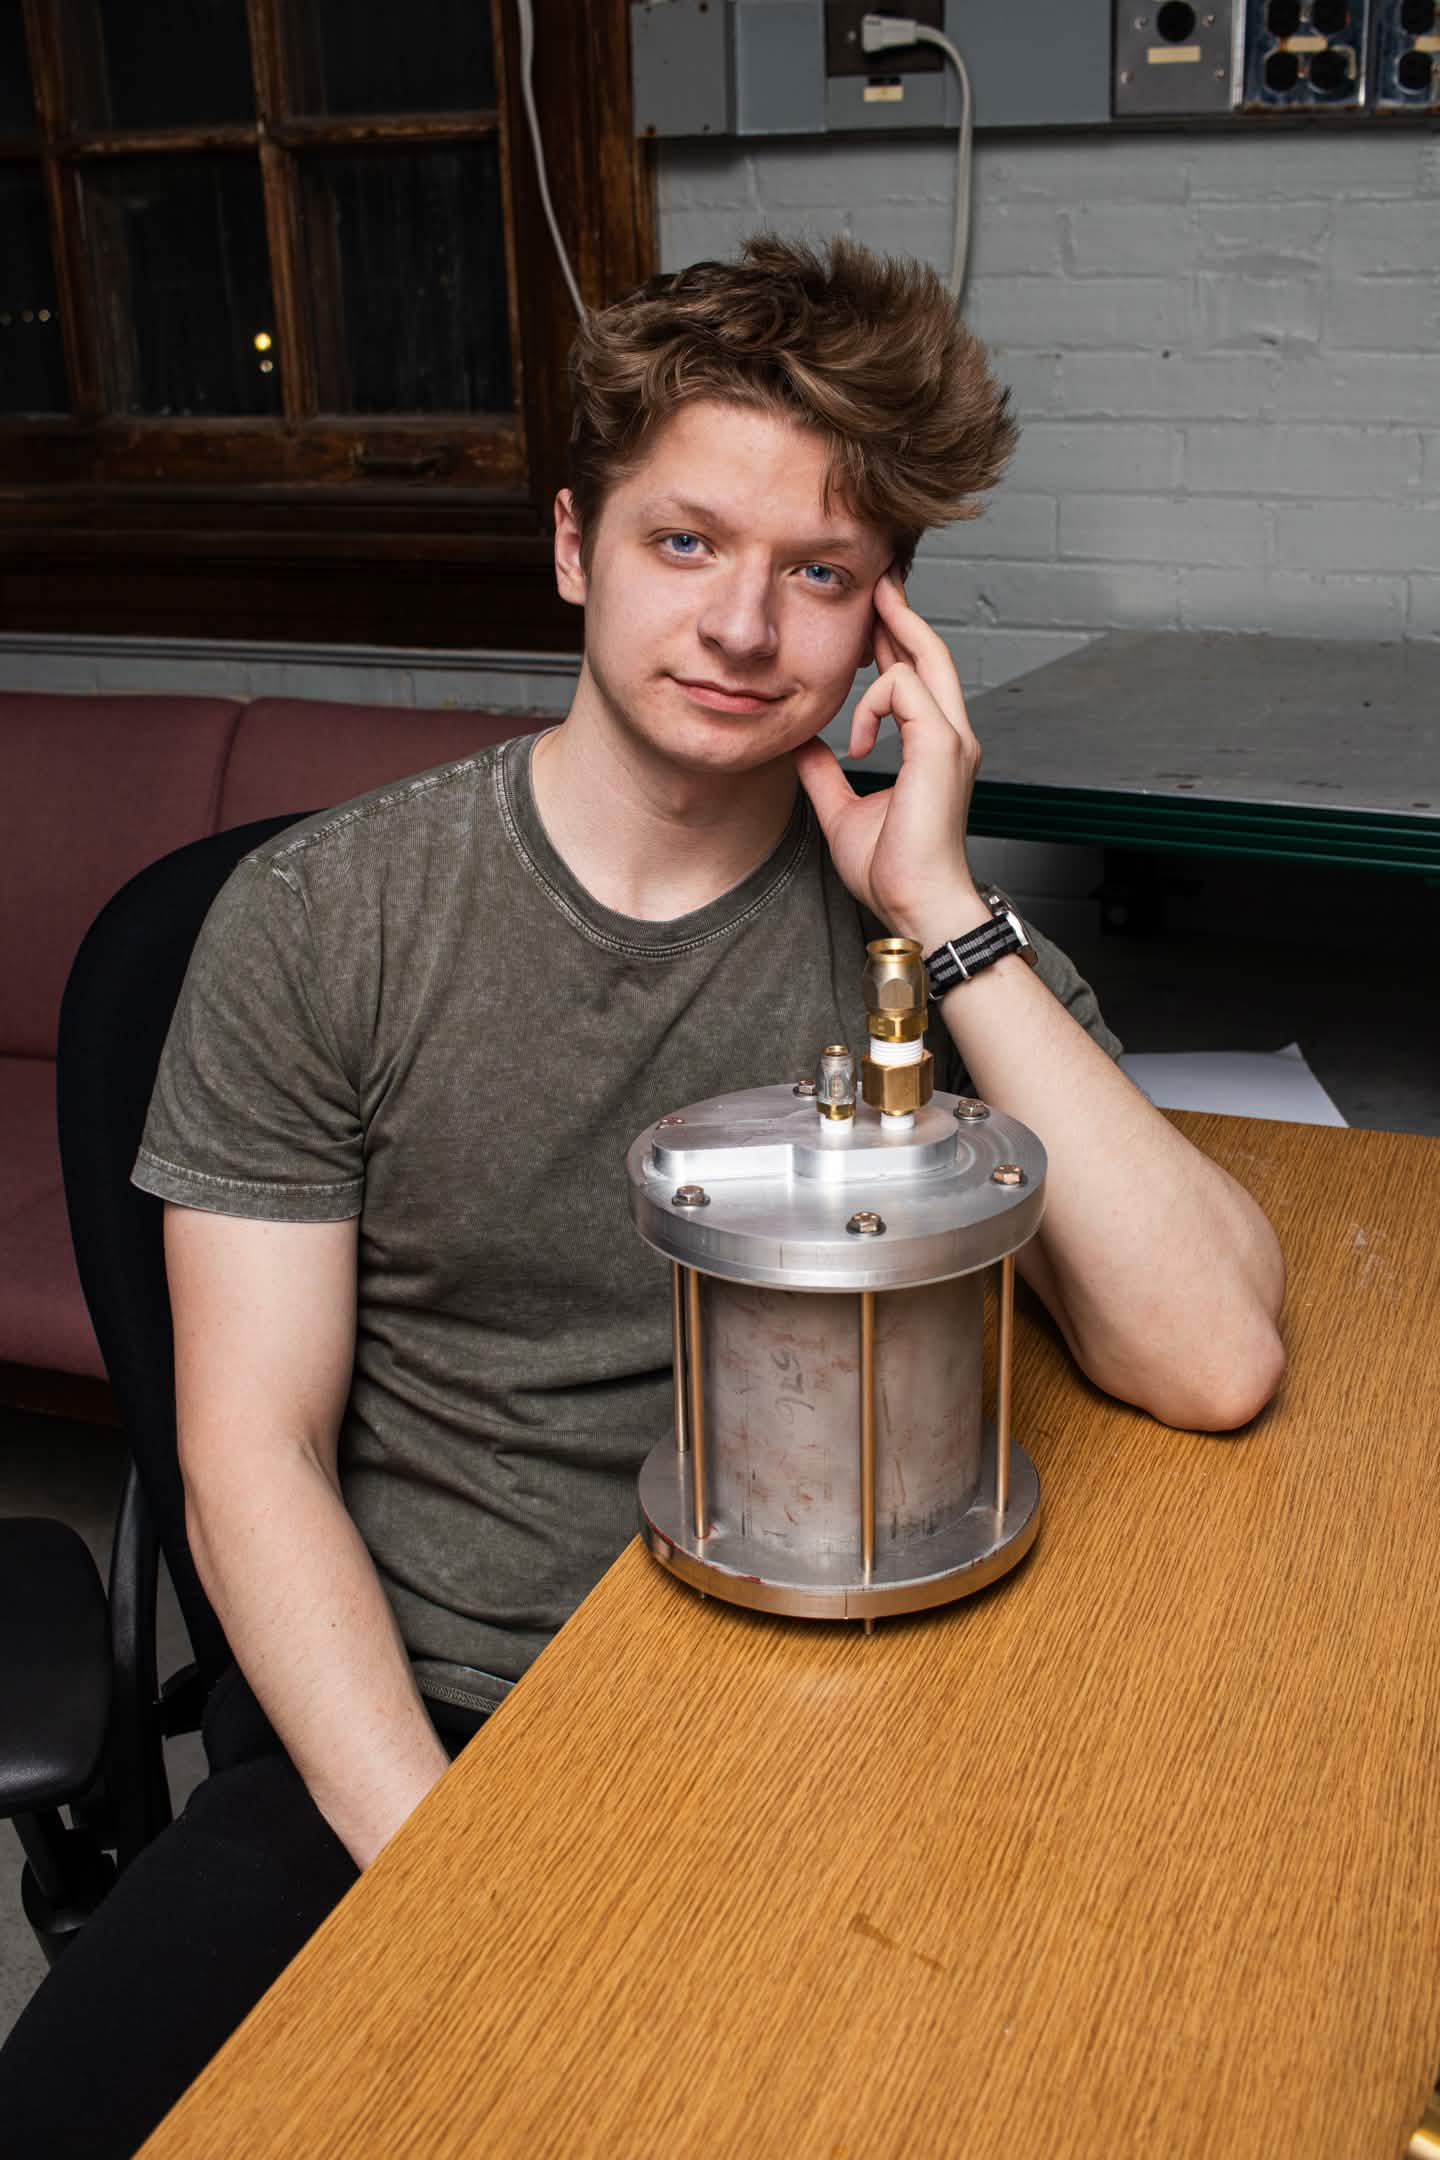
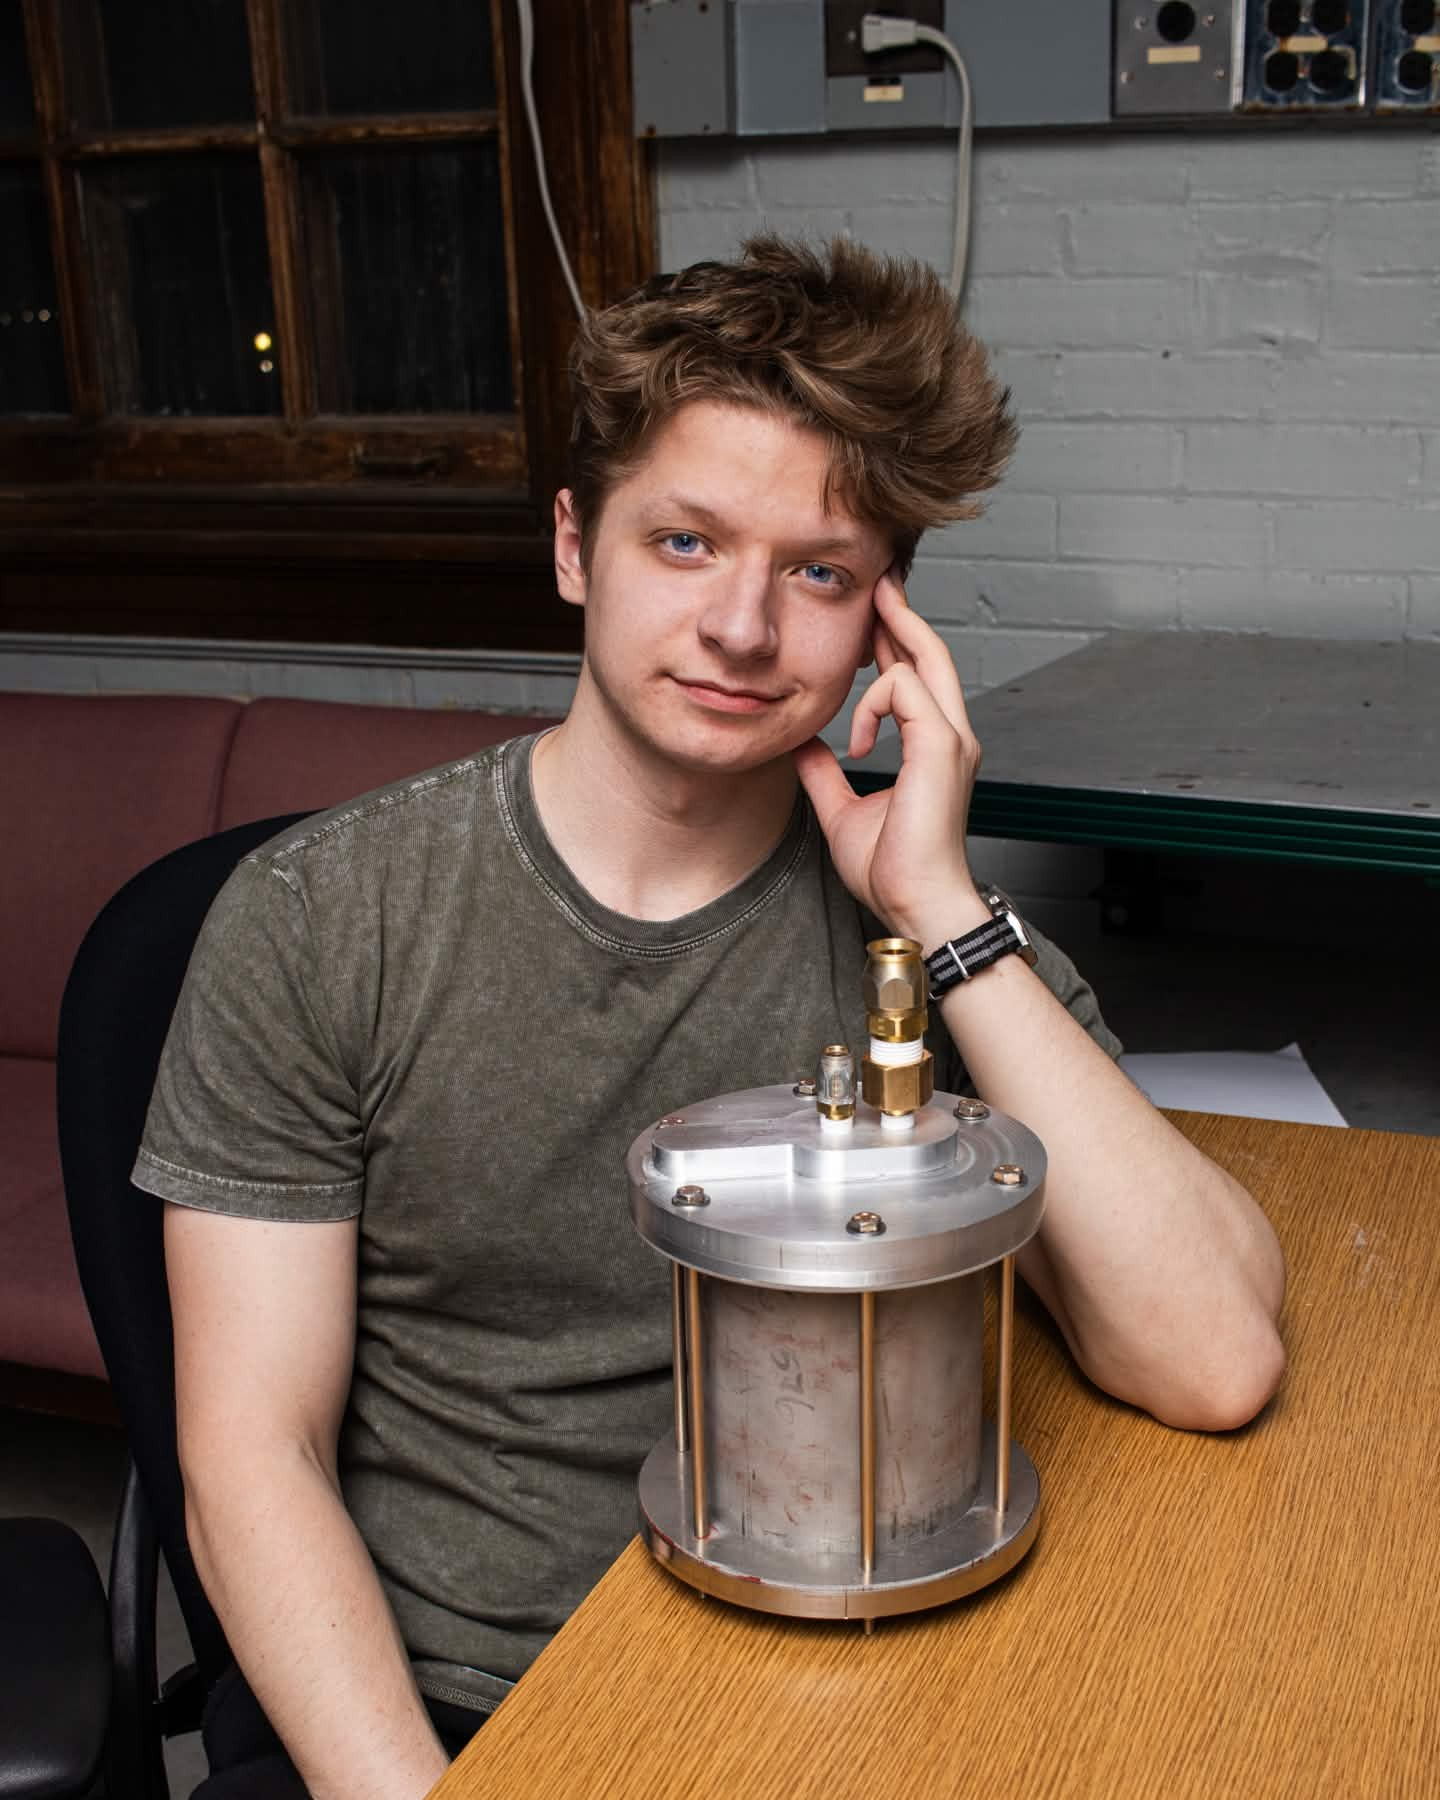
red theme

diff --git a/styles.css b/styles.css
@@ -1,15 +1,18 @@
-
+/* ===================================================================
+   Maximilian Slavik — Engineering Portfolio
+   RED variant — RPI-inspired
+   =================================================================== */
 
 @import url('https://fonts.googleapis.com/css2?family=JetBrains+Mono:wght@400;500;600&family=Inter:wght@400;500;600;700&display=swap');
 
 :root{
-  --bg:       #12141a;
-  --panel:    #181b22;
-  --line:     #2a2e37;
-  --text:     #e7e5df;
-  --text-dim: #8b8f99;
-  --accent:   #ff8a3d;
-  --accent-dim: #8a5330;
+  --bg:         #000;
+  --panel:      #0a0a0a;
+  --line:       #1a1a1a;
+  --text:       #e0e0e0;
+  --text-dim:   #6b6b6b;
+  --accent:     #cc2936;
+  --accent-dim: #5c1419;
 }
 
 *{ box-sizing:border-box; }
@@ -22,7 +25,7 @@ body{
   line-height:1.65;
   font-size:16px;
 }
-h1,h2,h3{ font-family:'Inter', sans-serif; font-weight:700; letter-spacing:-0.01em; }
+h1,h2,h3{ font-family:'Inter', sans-serif; font-weight:700; letter-spacing:-0.02em; }
 p{ color:var(--text); }
 a{ color:var(--accent); text-decoration:none; }
 a:hover{ text-decoration:underline; }
@@ -34,8 +37,8 @@ a:hover{ text-decoration:underline; }
 /* ---------------- Nav ---------------- */
 header.site-nav{
   position:sticky; top:0; z-index:50;
-  background:rgba(18,20,26,0.92);
-  backdrop-filter:blur(8px);
+  background:rgba(0,0,0,0.92);
+  backdrop-filter:blur(10px);
   border-bottom:1px solid var(--line);
 }
 header.site-nav .wrap{
@@ -44,7 +47,7 @@ header.site-nav .wrap{
 }
 .brand{
   font-family:'JetBrains Mono', monospace;
-  font-size:0.92rem; font-weight:500; color:var(--text);
+  font-size:0.92rem; font-weight:600; color:var(--text);
   display:flex; align-items:center; gap:8px;
 }
 .brand .dot{ color:var(--accent); }
@@ -54,6 +57,7 @@ nav.links a{
   font-size:0.78rem; letter-spacing:0.02em;
   color:var(--text-dim);
   padding:4px 0; border-bottom:2px solid transparent;
+  transition:color 0.2s;
 }
 nav.links a:hover{ color:var(--text); text-decoration:none; }
 nav.links a.active{ color:var(--text); border-bottom-color:var(--accent); }
@@ -80,6 +84,7 @@ nav.links a.resume{ color:var(--accent); }
   color:var(--text-dim);
   border:1px solid var(--line); padding:7px 14px;
   border-radius:3px;
+  transition:color 0.2s, border-color 0.2s;
 }
 .jumplist a:hover{ color:var(--accent); border-color:var(--accent-dim); text-decoration:none; }
 
@@ -100,7 +105,7 @@ section.project:last-of-type{ border-bottom:none; }
 .split.reverse .figure-col{ order:2; }
 .split.wide-figure{ grid-template-columns:0.75fr 1.25fr; }
 
-.project-body p{ margin:0 0 16px; color:#cfcdc4; }
+.project-body p{ margin:0 0 16px; color:#b0b0b0; }
 .stat-line{
   font-family:'JetBrains Mono', monospace; font-size:0.82rem;
   color:var(--accent);
@@ -116,10 +121,8 @@ section.project:last-of-type{ border-bottom:none; }
 .figure.tall img{ height:320px; }
 .figure.tall.xl img{ height:460px; }
 
-/* Use on diagrams, plots, or screenshots where cropping would cut off
-   labels/edges — shows the whole image instead of filling the box. */
-.figure.contain img{ object-fit:contain; background:#f4f2ec; }
-.figure.contain figcaption{ border-top:1px solid var(--line); }
+/* Diagrams/plots — show full image, no cropping */
+.figure.contain img{ object-fit:contain; background:#111; }
 .figure figcaption{
   font-family:'JetBrains Mono', monospace; font-size:0.68rem;
   color:var(--text-dim); padding:9px 11px; border-top:1px solid var(--line);
@@ -143,10 +146,11 @@ section.project:last-of-type{ border-bottom:none; }
   font-family:'JetBrains Mono', monospace; font-size:0.85rem;
   padding:11px 20px; border-radius:3px; border:1px solid var(--line);
   color:var(--text);
+  transition:border-color 0.2s;
 }
 .btn:hover{ border-color:var(--accent); text-decoration:none; }
-.btn.primary{ background:var(--accent); color:#12141a; border-color:var(--accent); font-weight:600; }
-.btn.primary:hover{ opacity:0.9; }
+.btn.primary{ background:var(--accent); color:#fff; border-color:var(--accent); font-weight:600; }
+.btn.primary:hover{ opacity:0.88; }
 
 .photo-strip{ display:grid; grid-template-columns:1fr 1fr; gap:12px; }
 .photo-strip .figure img{ height:150px; }
@@ -158,7 +162,9 @@ section.project:last-of-type{ border-bottom:none; }
 .cat-card{
   border:1px solid var(--line); background:var(--panel);
   padding:28px 24px; border-radius:4px;
+  transition:border-color 0.25s;
 }
+.cat-card:hover{ border-color:var(--accent-dim); }
 .cat-card .num{ font-family:'JetBrains Mono', monospace; color:var(--accent-dim); font-size:0.82rem; }
 .cat-card h3{ margin:10px 0 10px; font-size:1.2rem; }
 .cat-card p{ color:var(--text-dim); font-size:0.92rem; margin:0 0 18px; }

diff --git a/personal-projects.html b/personal-projects.html
@@ -48,8 +48,8 @@
         <p>Personally designed the Altair additive thrust chamber and taught regenerative cooling, pintle injector optimization, and finite element analysis to students on the Propulsion team.</p>
         <div class="stat-line">Approaching CDR and Fabrication. Vehicle Simulations</div>
       </div>
-      <figure class="figure tall xl contain">
-        <img src="images/altair-exploded.png" alt="rpu1 lab pic">
+      <figure class="figure tall">
+        <img src="images/altair-exploded.png" alt="Rpu2 exploded view">
         <figcaption>RPU-2 'Altair' Exploded View</figcaption>
       </figure>
     </div>
@@ -127,11 +127,7 @@
       </div>
     </div>
 
-    <div class="figure-grid cols-3">
-      <figure class="figure contain">
-        <img src="images/GMAS-diagram.png" alt="CAD of the quick-release pylon system">
-        <figcaption>Quick-release pylon assembly, CAD</figcaption>
-      </figure>
+    <div class="figure-grid cols-2">
       <figure class="figure">
         <img src="images/dbf-team.png" alt="FEA stress distribution on the pylon">
         <figcaption>Team leads after competition</figcaption>
